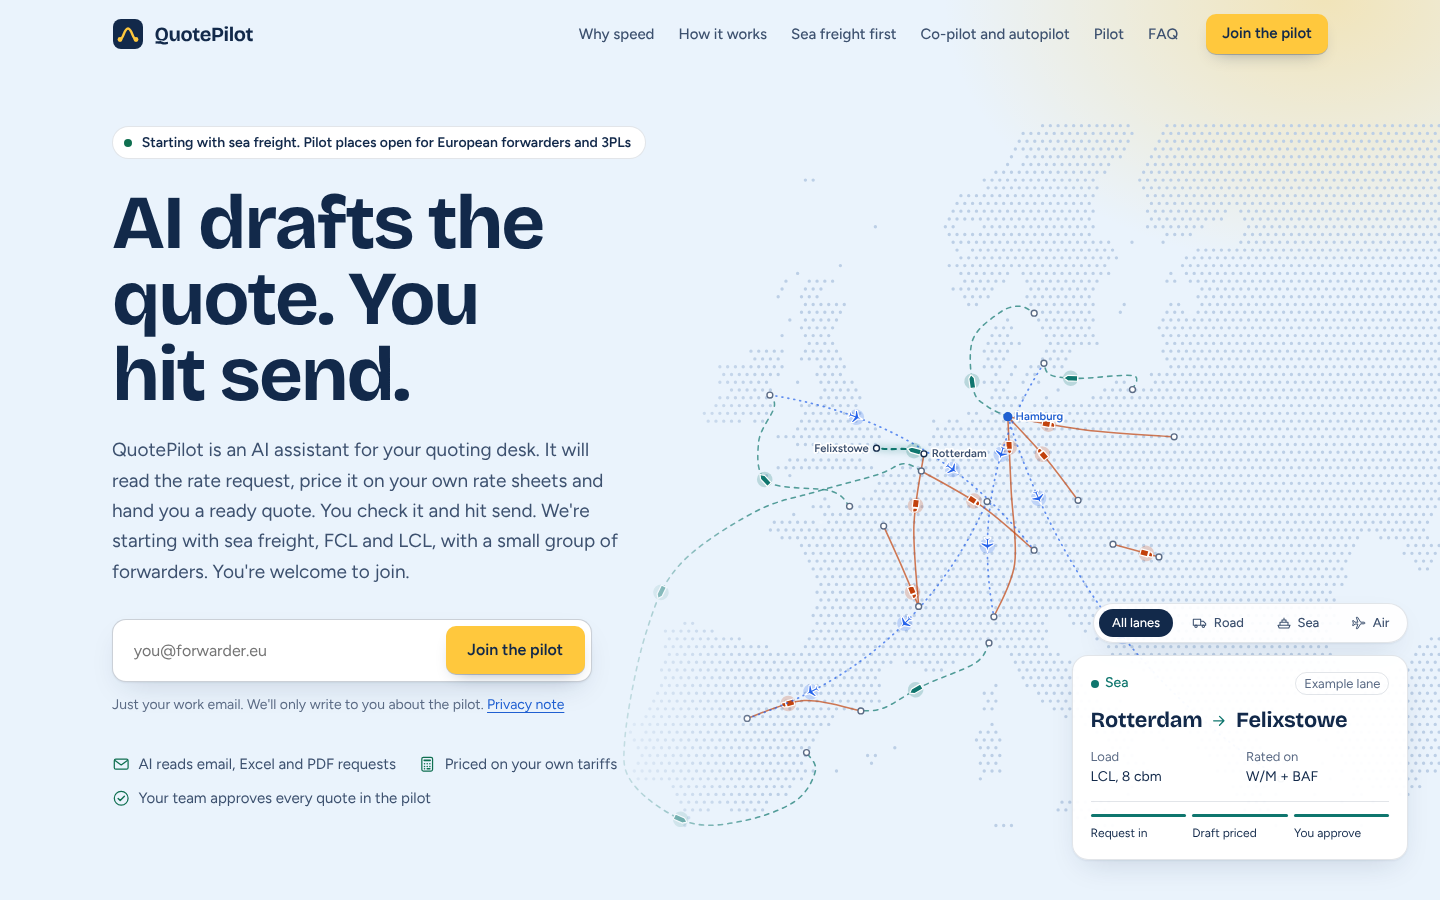
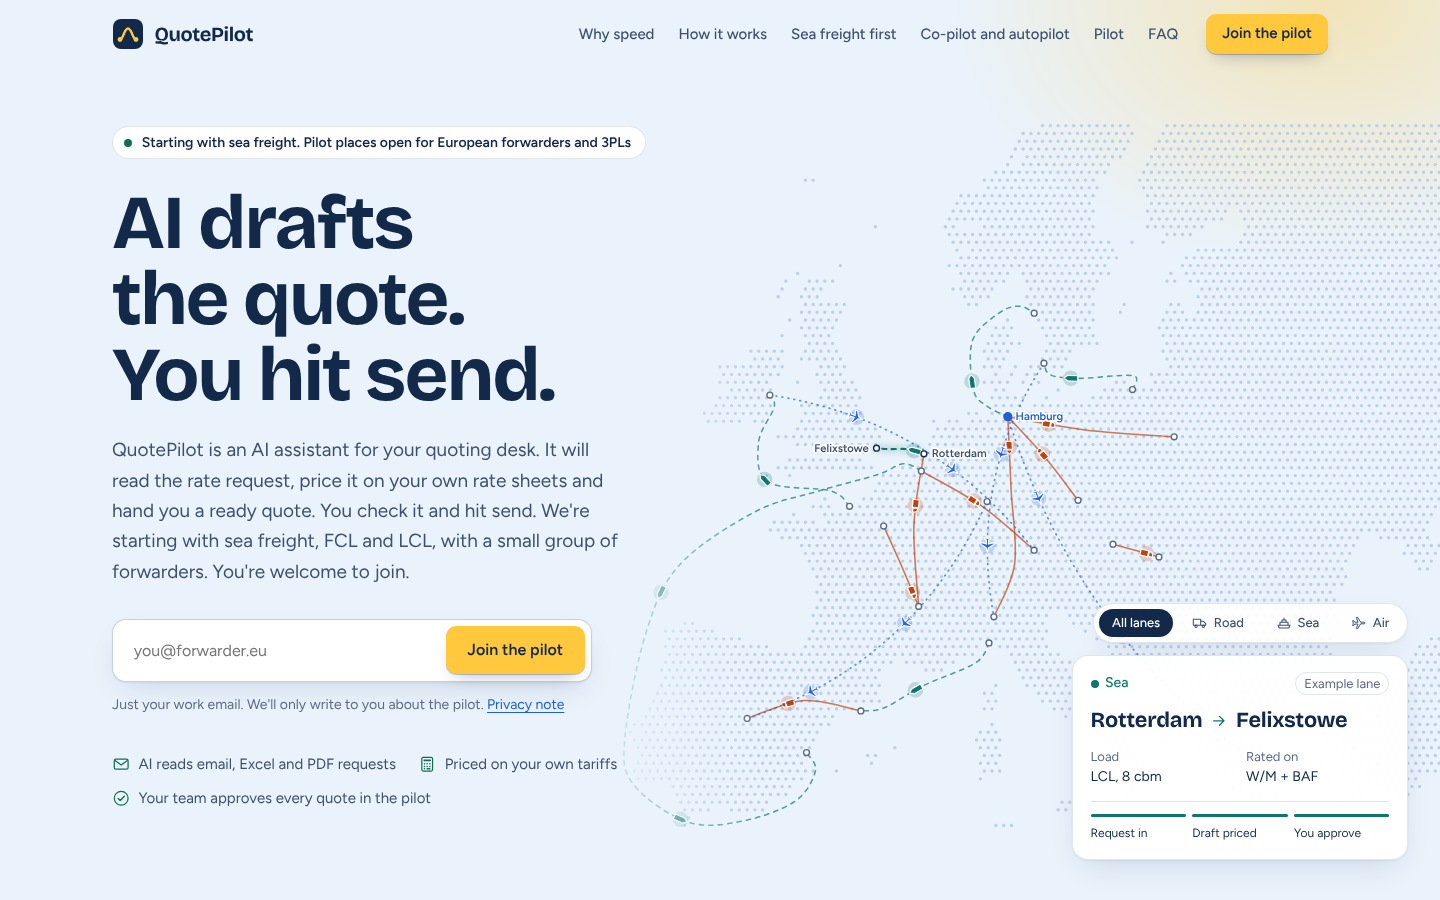
Break the hero headline into three short lines
Claude-Session: https://claude.ai/code/session_012CCbPrYwKi96DXXUWHY8XR

Changed region(s): [[0.0625, 0.3111, 0.375, 0.4667], [0.2812, 0.2178, 0.375, 0.28]]

diff --git a/public/index.html b/public/index.html
@@ -95,7 +95,7 @@
       <div class="wrap hero-inner">
         <div class="hero-copy">
           <p class="eyebrow"><span class="pulse" aria-hidden="true"></span>Starting with sea freight. Pilot places open for European forwarders and 3PLs</p>
-          <h1 id="hero-title">AI drafts the quote. You hit send.</h1>
+          <h1 id="hero-title">AI drafts<br>the quote.<br>You hit send.</h1>
           <p class="deck">QuotePilot is an AI assistant for your quoting desk. It will read the rate request, price it on your own rate sheets and hand you a ready quote. You check it and hit send. We're starting with sea freight, FCL and LCL, with a small group of forwarders. You're welcome to join.</p>
 
           <form id="waitlist" class="inline-form" action="api/waitlist" method="post" data-waitlist-form aria-label="Join the pilot waitlist">
